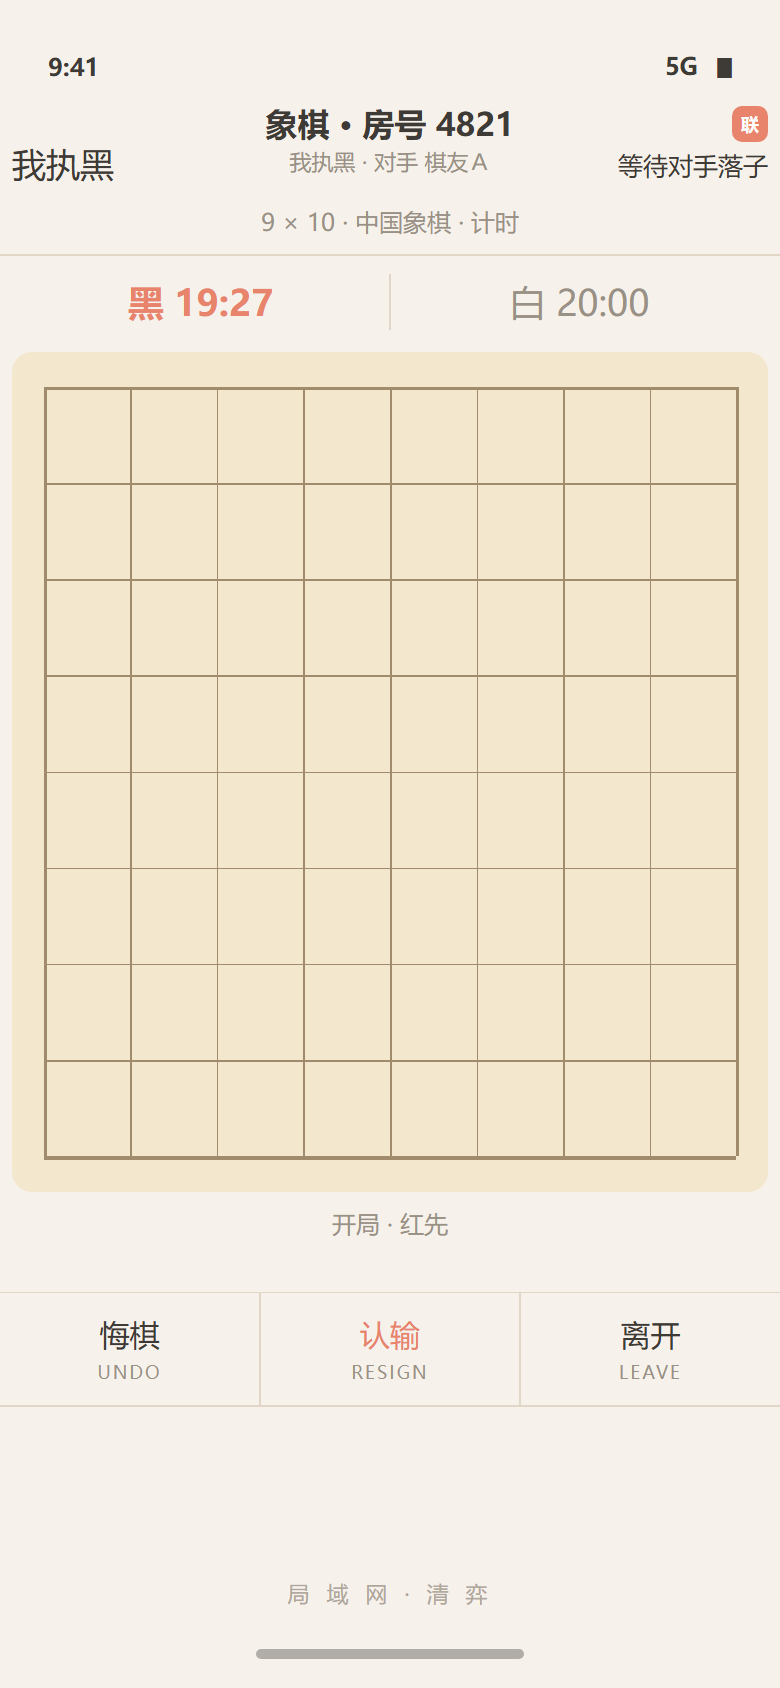
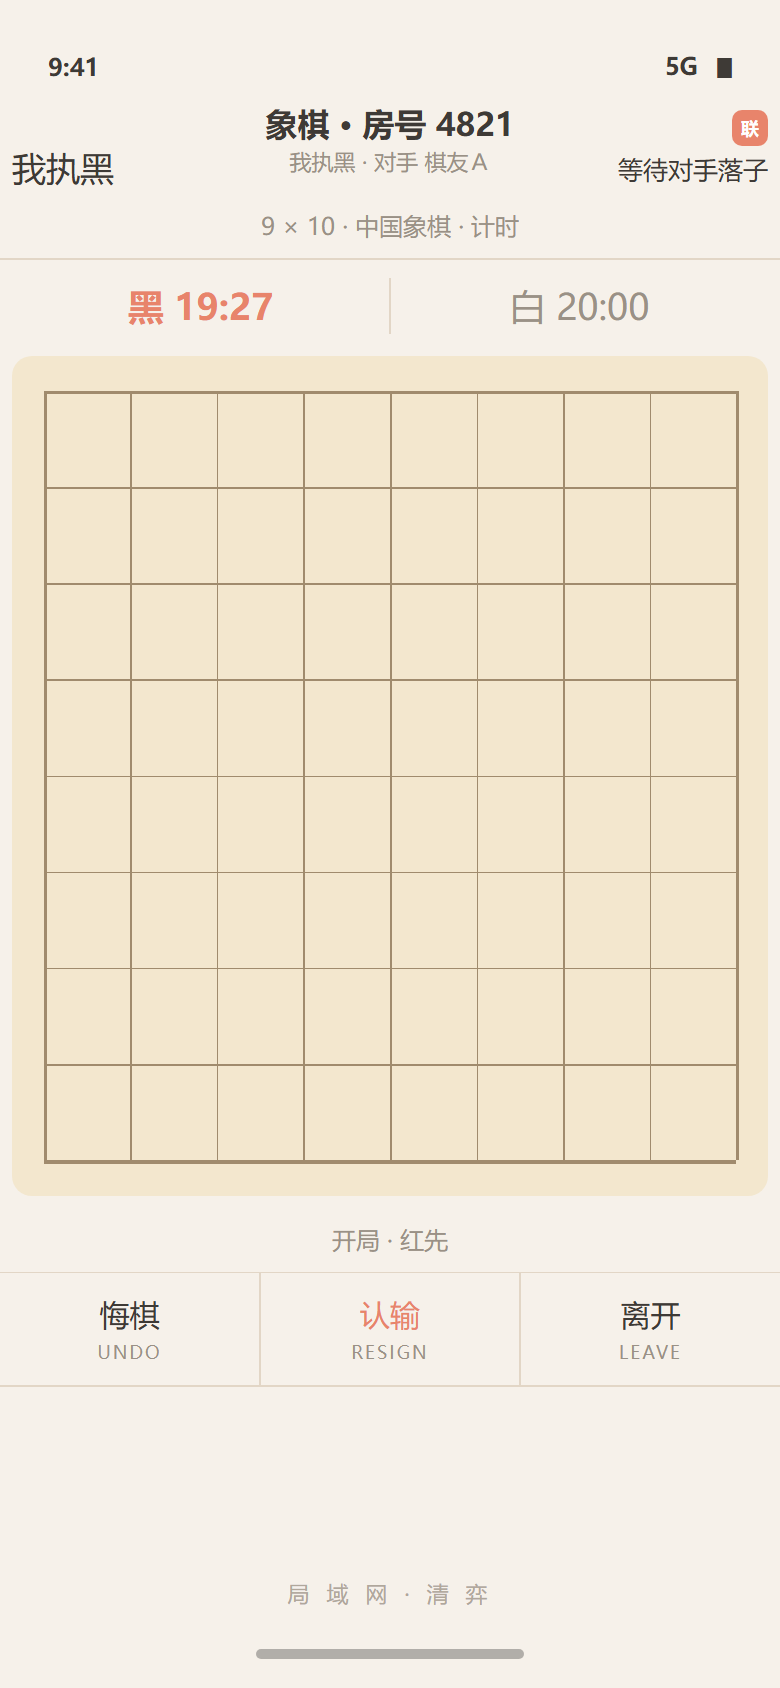
修复联机页每走一步棋盘上下抖动：页头与状态行固定高度；棋盘下信息行与动作区下移
- LanGameView 页头 ZStack 固定 44pt，右侧状态行钉死 20pt 行盒，保证「轮到你落子」「等待对手落子」等切换时上方高度不变
- 规则行固定 16pt 行高，棋盘顶边只由固定值决定
- 棋盘底→状态行 14pt、状态行→动作区 22pt（总 52pt），不再与棋盘贴在一起
- 渲染稿同步新几何，新增 4 组合 × 3 状态共 12 张 y 坐标取证图与修复前后对照图
- 构建号 13→14，版本 1.1.6 不变

diff --git a/QingYi/UI/LanGameView.swift b/QingYi/UI/LanGameView.swift
@@ -70,7 +70,7 @@ struct LanGameView: View {
 
                     stateLine
                         .padding(.horizontal, 8)
-                        .padding(.top, 8)
+                        .padding(.top, Self.boardToStateGap)
 
                     if hub.linkDown && hub.state == .playing {
                         Text("连接中断，正在重连…（计时已暂停，\(LanProto.reconnectGraceMs / 1000) 秒内未恢复将判负）")
@@ -82,10 +82,10 @@ struct LanGameView: View {
                             .padding(.top, 4)
                     }
 
-                    // 棋盘底边 → 动作区顶边与单机页一致：
-                    // 围棋 8(状态行上距)+16(状态行)+16 = 40；象棋同理 50。
+                    // 棋盘底边 → 动作区顶边的总间距：14(状态行上距) + 16(状态行) + 22 = 52，
+                    // 比单机页的 40 更松，避免状态行与按钮贴着棋盘挤成一堆。
                     controls
-                        .padding(.top, game == .go ? 16 : 26)
+                        .padding(.top, Self.stateToControlsGap)
 
                     Spacer(minLength: 8)
 
@@ -177,15 +177,26 @@ struct LanGameView: View {
                         .lineLimit(1)
                         .minimumScaleFactor(0.7)
                         .truncationMode(.tail)
-                        .frame(width: Self.headerRightWidth, alignment: .trailing)
+                        // 行盒高度写死：文案从 5 字缩到 6 字时字号会自动缩小，
+                        // 若不钉住行盒，右列总高会跟着变，页头高度随之变化 → 棋盘上下抖。
+                        .frame(width: Self.headerRightWidth, height: Self.headerStatusLineHeight, alignment: .trailing)
                 }
             }
         }
+        // 页头整体固定高度：上面任何文字的字号/行数变化都不允许改变这块的高度，
+        // 棋盘顶边的 y 坐标因此只由固定值决定。
+        .frame(height: Self.headerHeight)
     }
 
     /// 左右侧栏的固定宽度（不随文案长度变化）
     private static let headerLeftWidth: CGFloat = 64
     private static let headerRightWidth: CGFloat = 76
+    /// 页头固定高度 + 状态行固定行盒：两者共同保证棋盘顶边不动
+    private static let headerHeight: CGFloat = 44
+    private static let headerStatusLineHeight: CGFloat = 20
+    /// 棋盘底 → 状态行 / 状态行 → 动作区 的固定间距（不随文案或棋种变化）
+    private static let boardToStateGap: CGFloat = 14
+    private static let stateToControlsGap: CGFloat = 22
     private static let headerSideReserve: CGFloat = 78
 
     private var gameIdText: String { hub.gameId.isEmpty ? (game == .go ? LanProto.goGame : LanProto.xiangqiGame) : hub.gameId }
@@ -208,6 +219,8 @@ struct LanGameView: View {
             .foregroundColor(theme.sub)
             .frame(maxWidth: .infinity, alignment: .center)
             .lineLimit(1)
+            // 固定行高：规则文案里的贴目/计时变化不改变这一行的高度
+            .frame(height: 16)
     }
 
     private var ruleText: String {
@@ -336,6 +349,8 @@ struct LanGameView: View {
             .lineLimit(1)
             .truncationMode(.middle)
             .frame(maxWidth: .infinity, alignment: .center)
+            // 固定行盒：提示文字长短不影响下方按钮的位置
+            .frame(height: 16)
     }
 
     private var stateLineText: String {

diff --git a/docs/render/lan-game-preview.html b/docs/render/lan-game-preview.html
@@ -20,7 +20,7 @@
   .hair { height: 0.8px; flex: none; }
 
   /* 页头：中间块绝对居中（left/right 对称 78px），左右浮层定宽，互不参与对方宽度 */
-  .head { position: relative; height: 42px; flex: none; }
+  .head { position: relative; height: 44px; flex: none; }
   .headC { position: absolute; left: 84px; right: 84px; top: 0; text-align: center; }
   .headC .t { font-size: 16px; font-weight: 700; line-height: 21px; }
   .headC .s { font-size: 11px; line-height: 14px; margin-top: 2px; }
@@ -30,7 +30,7 @@
            display: flex; flex-direction: column; align-items: flex-end; gap: 2px; }
   .seal { width: 18px; height: 18px; color: #fff; font-size: 9px; font-weight: 600;
           display: flex; align-items: center; justify-content: center; }
-  .status { width: 76px; text-align: right; font-size: 15px; line-height: 20px;
+  .status { width: 76px; height: 20px; text-align: right; font-size: 15px; line-height: 20px;
             white-space: nowrap; overflow: hidden; text-overflow: ellipsis; }
 
   .rule { font-size: 12px; line-height: 16px; text-align: center; padding: 10px 6px 0 6px; flex: none; }
@@ -42,7 +42,7 @@
   .board { margin: 4px 6px 0 6px; aspect-ratio: 1 / 1; position: relative; flex: none; }
   .board.xq { aspect-ratio: 9 / 10; }
 
-  .stateline { font-size: 12px; line-height: 16px; text-align: center; padding: 8px 8px 0 8px; flex: none; }
+  .stateline { font-size: 12px; line-height: 16px; height: 16px; text-align: center; padding: 14px 8px 0 8px; flex: none; }
   .spacer { flex: 1; min-height: 8px; }
 
   /* 动作行：固定 56px 高，与 GameLayout.actionRowHeight 一致 */
@@ -65,6 +65,7 @@ const params = new URLSearchParams(location.search);
 const id = params.get("theme") === "monument" ? "monument" : "hara";
 const game = params.get("game") === "xiangqi" ? "xiangqi" : "go";
 const statusText = params.get("status") || "等待对手落子";
+const simBug = params.get("sim") === "bug";
 const mySide = game === "go" ? "白" : "黑";
 
 const T = id === "hara" ? {
@@ -109,6 +110,18 @@ page.appendChild(head);
   }
   if (el.scrollWidth > 76) el.style.textOverflow = "ellipsis";
 })();
+
+/* 仅用于对照取证：还原「修复前页头高度由内容撑开」的行为（sim=bug）。
+   页头子元素全是绝对定位，height:auto 会塌成 0，所以这里按修复前的算法手算高度：
+   18(徽章) + 2(间距) + 状态行实际行高。 */
+if (simBug) {
+  const el = head.querySelector(".status");
+  const fs = parseFloat(el.style.fontSize || "15");
+  const statusLine = fs >= 15 ? 20 : fs * 1.35;
+  head.style.height = Math.max(37, Math.min(44, 18 + 2 + statusLine)) + "px";
+  el.style.height = "auto";
+  el.style.lineHeight = "normal";
+}
 
 /* ---------- 规则行 ---------- */
 const rule = document.createElement("div");
@@ -170,7 +183,7 @@ const items = game === "go"
   : [["悔棋", "UNDO", ""], ["认输", "RESIGN", T.accent], ["离开", "LEAVE", ""]];
 
 const controls = document.createElement("div");
-controls.style.marginTop = game === "go" ? "16px" : "26px";
+controls.style.marginTop = "22px";
 let grid = `<div class="hair" style="background:${T.divider}"></div>`;
 for (let i = 0; i < items.length; i += 3) {
   grid += `<div class="row">`;
